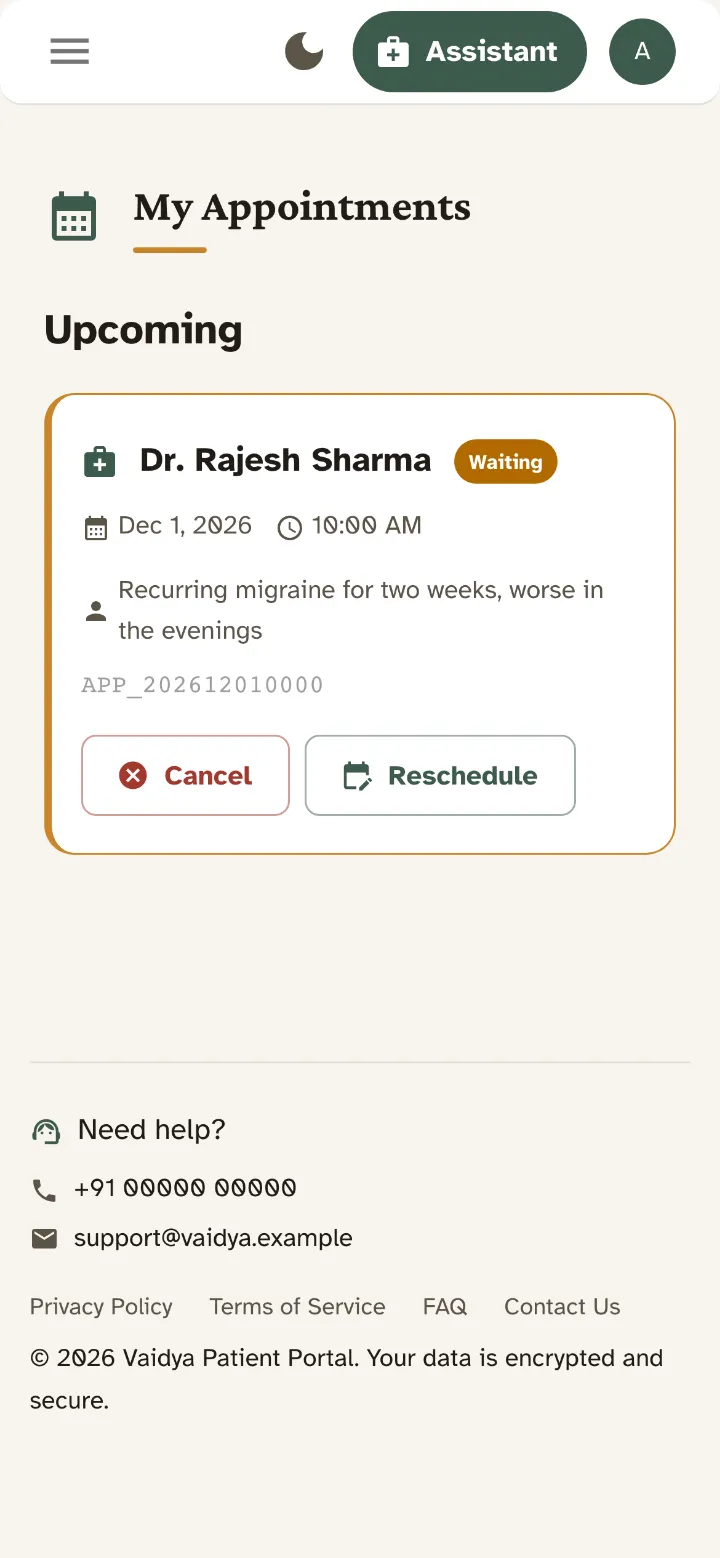
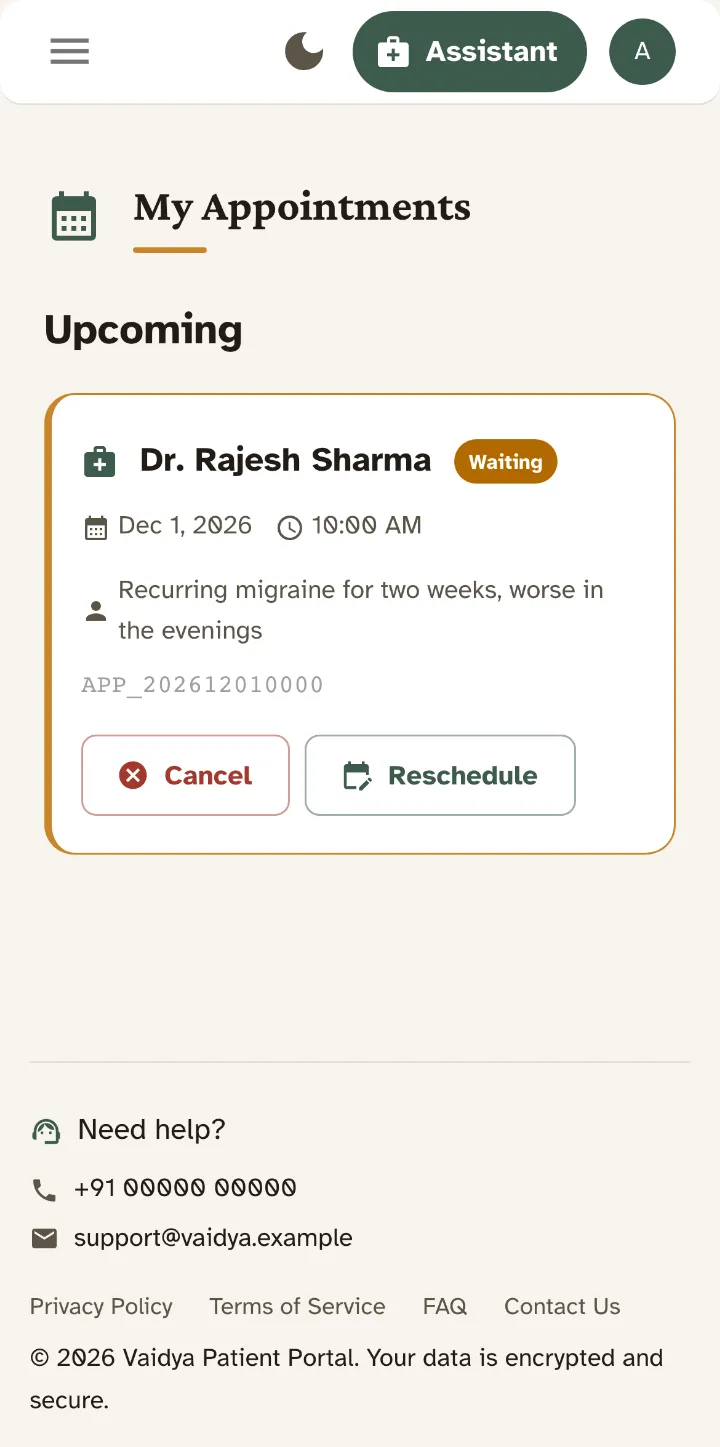
Crop Vaidya phone screens above the half-visible bottom row
The phone captures ended mid-element: the dashboard on a half-shown
"Ready for your next checkup?" banner and its button, the booking page on
a half-cut "Available time slots" row. All four Vaidya phone screens are
now cropped to 784 of 844 CSS pixels, ending under the last whole card,
so each frame ends cleanly and the four stay one height when switching.

diff --git a/index.html b/index.html
@@ -251,16 +251,16 @@
                   <div class="screens-bar" aria-hidden="true"><i></i><i></i><i></i><span>Vaidya Patient</span></div>
                   <div class="screens-views">
                     <div class="screen" data-screen="dashboard" data-note-label="Dashboard" data-note="The next appointment and profile status come from the patient portal API." data-current>
-                      <picture><source media="(max-width: 600px)" srcset="/projects/vaidya-dashboard-phone.webp" width="720" height="1558"><img src="/projects/vaidya-dashboard.webp" width="1280" height="800" alt="Vaidya patient dashboard showing the next appointment with Dr. Rajesh Sharma on December 1" decoding="async"></picture>
+                      <picture><source media="(max-width: 600px)" srcset="/projects/vaidya-dashboard-phone.webp" width="720" height="1447"><img src="/projects/vaidya-dashboard.webp" width="1280" height="800" alt="Vaidya patient dashboard showing the next appointment with Dr. Rajesh Sharma on December 1" decoding="async"></picture>
                     </div>
                     <div class="screen" data-screen="book" data-note-label="Book" data-note="Only doctors from the patient’s own clinic are listed." aria-hidden="true">
-                      <picture><source media="(max-width: 600px)" srcset="/projects/vaidya-book-phone.webp" width="720" height="1558"><img src="/projects/vaidya-book.webp" width="1280" height="800" alt="Booking form with Dr. Rajesh Sharma selected as the doctor" decoding="async" loading="lazy"></picture>
+                      <picture><source media="(max-width: 600px)" srcset="/projects/vaidya-book-phone.webp" width="720" height="1447"><img src="/projects/vaidya-book.webp" width="1280" height="800" alt="Booking form with Dr. Rajesh Sharma selected as the doctor" decoding="async" loading="lazy"></picture>
                     </div>
                     <div class="screen" data-screen="review" data-note-label="Review" data-note="Nothing is written until the patient confirms the summary." aria-hidden="true">
-                      <picture><source media="(max-width: 600px)" srcset="/projects/vaidya-review-phone.webp" width="720" height="1558"><img src="/projects/vaidya-review.webp" width="1280" height="800" alt="Review dialog summarising doctor, date, time and reason before booking" decoding="async" loading="lazy"></picture>
+                      <picture><source media="(max-width: 600px)" srcset="/projects/vaidya-review-phone.webp" width="720" height="1447"><img src="/projects/vaidya-review.webp" width="1280" height="800" alt="Review dialog summarising doctor, date, time and reason before booking" decoding="async" loading="lazy"></picture>
                     </div>
                     <div class="screen" data-screen="booked" data-note-label="Booked" data-note="The appointment gets a reference and can be cancelled or rescheduled." aria-hidden="true">
-                      <picture><source media="(max-width: 600px)" srcset="/projects/vaidya-booked-phone.webp" width="720" height="1558"><img src="/projects/vaidya-booked.webp" width="1280" height="800" alt="My Appointments list with the new booking and Cancel and Reschedule buttons" decoding="async" loading="lazy"></picture>
+                      <picture><source media="(max-width: 600px)" srcset="/projects/vaidya-booked-phone.webp" width="720" height="1447"><img src="/projects/vaidya-booked.webp" width="1280" height="800" alt="My Appointments list with the new booking and Cancel and Reschedule buttons" decoding="async" loading="lazy"></picture>
                     </div>
                   </div>
                 </div>
